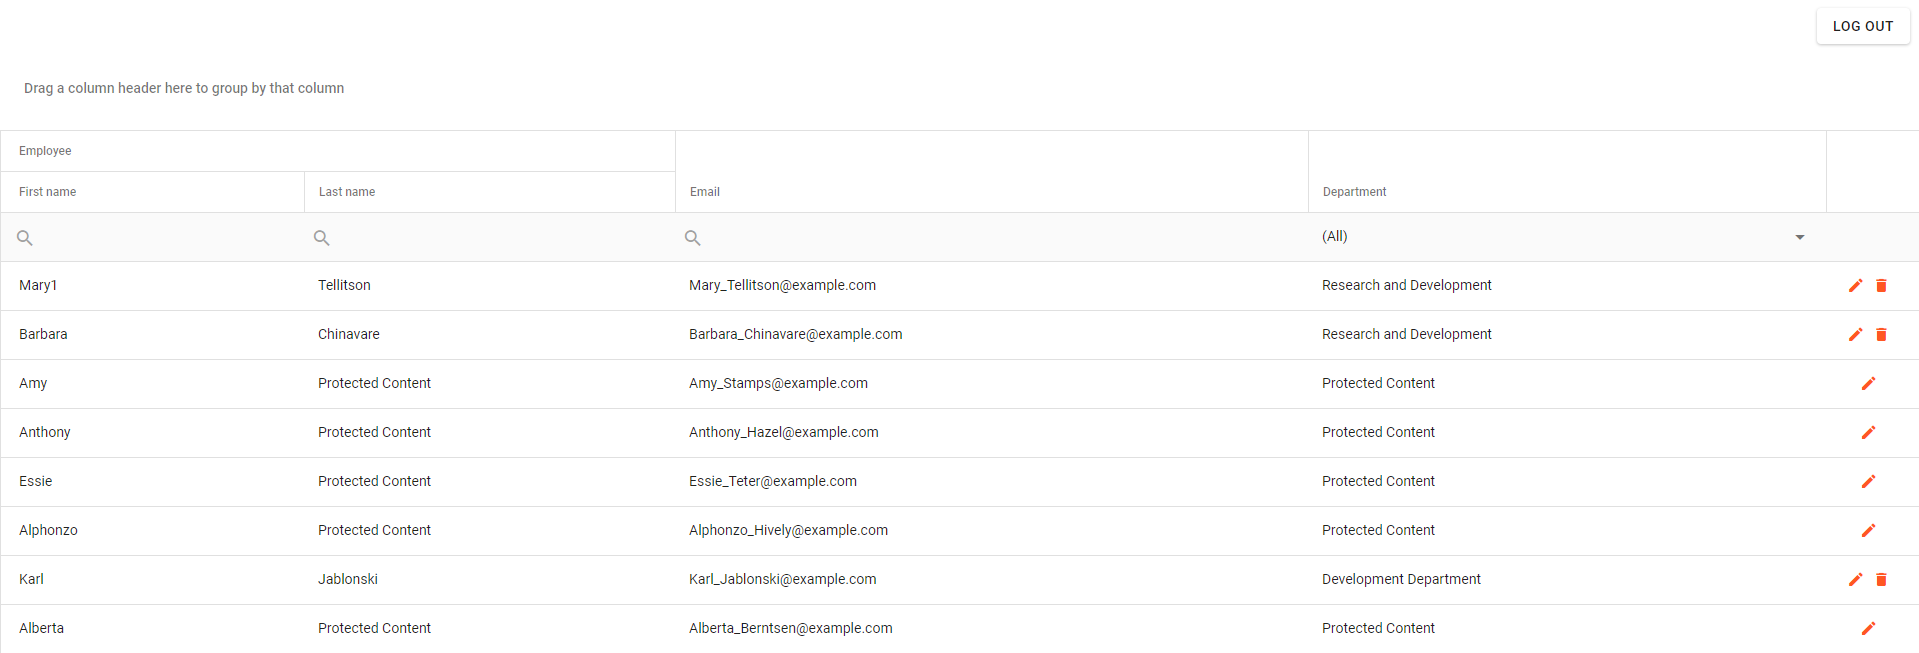
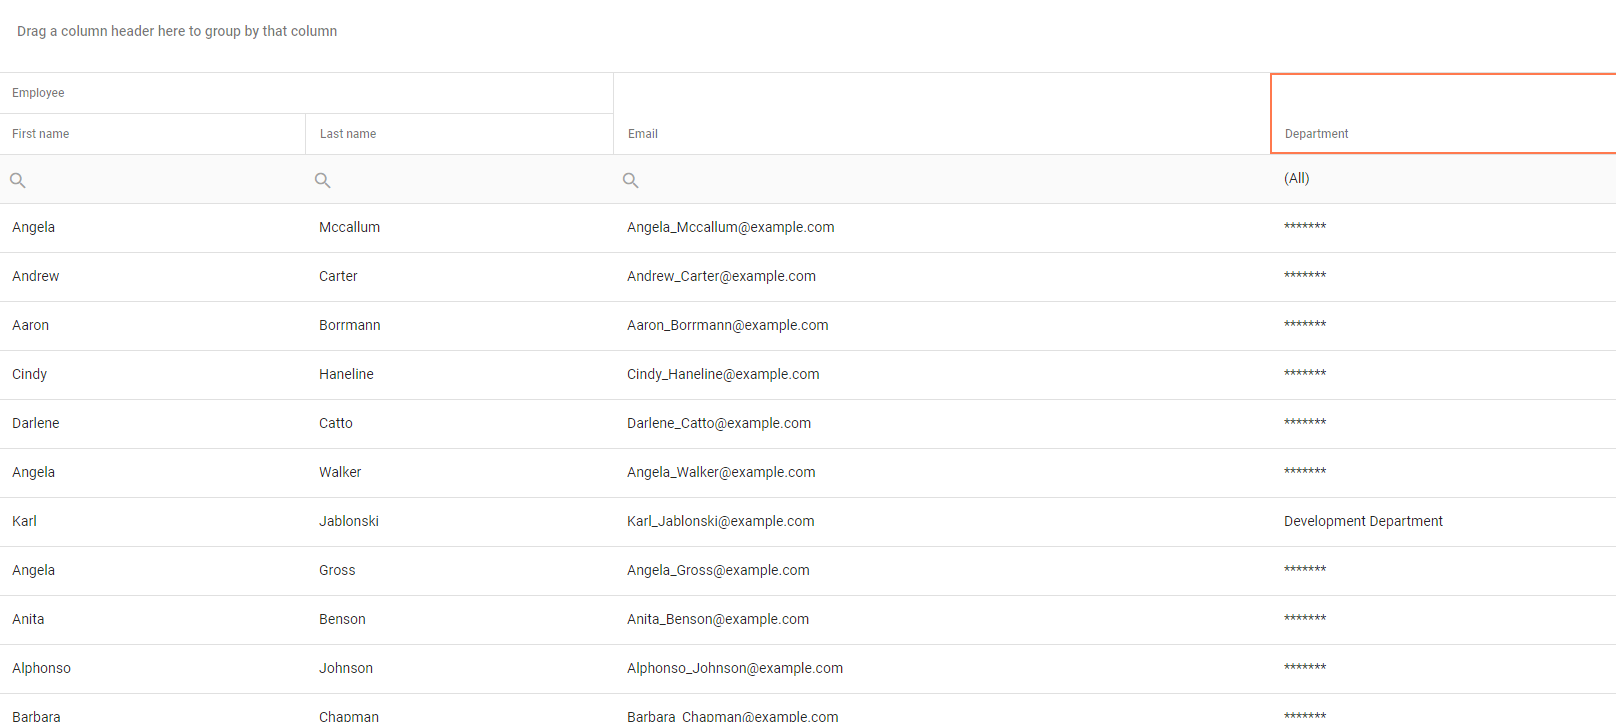
replace 'Protected content' with ******* (MVC)

diff --git a/XPO/ASP.NetCore/MVC/wwwroot/js/IndexCode.js b/XPO/ASP.NetCore/MVC/wwwroot/js/IndexCode.js
@@ -9,7 +9,7 @@ function onCellPrepared(e) {
 		if (!e.column.command) {
 			var dataField = e.column.dataField.split('.')[0];
 			if (!objectPermission.Data[dataField].Read) {
-				e.cellElement.text("Protected Content");
+                e.cellElement.text("*******");
 			}
 		}
 	}
@@ -48,7 +48,7 @@ function onEditorPreparing(e) {
 			var objectPermission = getPermission(key);
 			if (!objectPermission.Data[dataField].Read) {
 				e.editorOptions.disabled = true;
-				e.editorOptions.value = "Protected Content";
+                e.editorOptions.value = "*******";
 			}
 			if (!objectPermission.Data[dataField].Write) {
 				e.editorOptions.disabled = true;

diff --git a/XPO/ASP.NetCore/MVC/Readme.md b/XPO/ASP.NetCore/MVC/Readme.md
@@ -510,7 +510,7 @@ public class EmployeesController : Microsoft.AspNetCore.Mvc.Controller {
 	```
 
 - The `onEditorPreparing` function handles the data grid's [editorPreparing](https://js.devexpress.com/Documentation/ApiReference/UI_Widgets/dxDataGrid/Events/#editorPreparing) event and checks Read and Write operation permissions. 
-If the Read operation permission is denied, it displays the "Protected Content" placeholder and disables the editor. If the Write operation permission is denied, the editor is disabled.
+If the Read operation permission is denied, it displays the "*******" placeholder and disables the editor. If the Write operation permission is denied, the editor is disabled.
 
 	``` javascript
 	function onEditorPreparing(e) {
@@ -526,7 +526,7 @@ If the Read operation permission is denied, it displays the "Protected Content" 
 				var objectPermission = getPermission(key);
 				if (!objectPermission.Data[dataField].Read) {
 					e.editorOptions.disabled = true;
-					e.editorOptions.value = "Protected Content";
+					e.editorOptions.value = "*******";
 				}
 				if (!objectPermission.Data[dataField].Write) {
 					e.editorOptions.disabled = true;
@@ -537,7 +537,7 @@ If the Read operation permission is denied, it displays the "Protected Content" 
 	```	
 	
 - The `onCellPrepared` function handles the data grid's [cellPrepared](https://js.devexpress.com/Documentation/ApiReference/UI_Widgets/dxDataGrid/Events/#cellPrepared) event and checks Read operation permissions. 
-If the Read operation is denied, it displays the "Protected Content" placeholder in data grid cells.
+If the Read operation is denied, it displays the "*******" placeholder in data grid cells.
 
 	``` javascript
 	function onCellPrepared(e) {
@@ -547,7 +547,7 @@ If the Read operation is denied, it displays the "Protected Content" placeholder
     		if (!e.column.command) {
     			var dataField = e.column.dataField.split('.')[0];
     			if (!objectPermission.Data[dataField].Read) {
-    				e.cellElement.text("Protected Content");
+    				e.cellElement.text("*******");
     			}
     		}
     	}
@@ -600,7 +600,7 @@ The delete operation permission  defines whether the Delete actions should be di
 
    ![](/images/ODataLoginPage.png)
 
- - Notice that secured data is displayed as 'Protected Content'.
+ - Notice that secured data is displayed as '*******'.
    ![](/images/MVC_ListView.png)
 
  - Press the Logout button and log in under 'Admin' to see all records.
